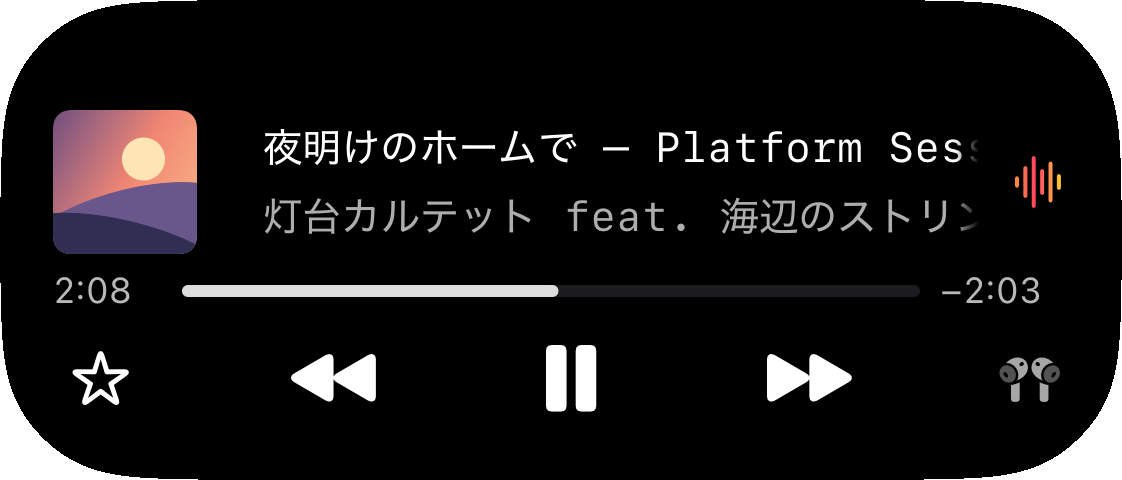
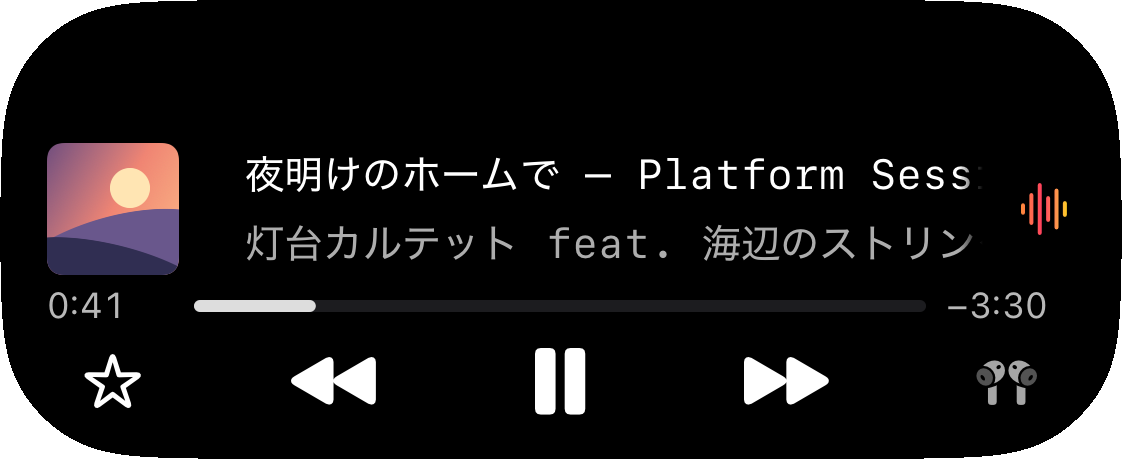
Show both now playing marquees in motion and align player card margins

diff --git a/Examples/NowPlayingLiveActivity/NowPlayingLiveActivity.swift b/Examples/NowPlayingLiveActivity/NowPlayingLiveActivity.swift
@@ -9,14 +9,12 @@ struct NowPlayingLiveActivity: Widget {
     var body: some WidgetConfiguration {
         ActivityConfiguration(for: NowPlayingAttributes.self) { context in
             NowPlayingCard(state: context.state, activityID: context.activityID)
-                .padding(.horizontal, 16)
-                .padding(.vertical, 10)
-                .activityBackgroundTint(Color(red: 0.12, green: 0.09, blue: 0.14).opacity(0.85))
+                .activityBackgroundTint(.clear)
                 .activitySystemActionForegroundColor(.white)
         } dynamicIsland: { context in
             DynamicIsland {
                 DynamicIslandExpandedRegion(.bottom) {
-                    NowPlayingCard(state: context.state, activityID: context.activityID)
+                    NowPlayingCard(state: context.state, activityID: context.activityID, isExpanded: true)
                 }
             } compactLeading: {
                 RecordCover().frame(width: 21, height: 21)
@@ -26,6 +24,8 @@ struct NowPlayingLiveActivity: Widget {
             } minimal: {
                 Image(systemName: "music.note")
             }
+            // The shared card already supplies the content margins.
+            .contentMargins(.all, 0, for: .expanded)
         }
     }
 }
@@ -33,11 +33,15 @@ struct NowPlayingLiveActivity: Widget {
 private struct NowPlayingCard: View {
     let state: NowPlayingAttributes.ContentState
     let activityID: String
+    var isExpanded = false
+
+    private var coverSize: CGFloat { isExpanded ? 44 : 48 }
+    private var controlHeight: CGFloat { isExpanded ? 32 : 44 }
 
     var body: some View {
-        VStack(spacing: 5) {
+        VStack(spacing: isExpanded ? 2 : 5) {
             HStack(spacing: 10) {
-                RecordCover().frame(width: 48, height: 48)
+                RecordCover().frame(width: coverSize, height: coverSize)
                 GeometryReader { area in
                     let group = WidgetMarqueeGroup(
                         [state.track.title, state.track.artist], startedAt: state.titleStartedAt,
@@ -53,32 +57,38 @@ private struct NowPlayingCard: View {
                     .marqueeEdgeFade(length: 8, clearance: 4)
                 }
                 .frame(height: 46)
-                if state.playingFrom == nil {
-                    Image(systemName: "pause.fill").font(.caption).accessibilityHidden(true)
-                } else {
-                    Image(systemName: "waveform")
-                        .foregroundStyle(LinearGradient(colors: [.orange, .pink, .yellow],
-                                                        startPoint: .leading, endPoint: .trailing))
-                        .accessibilityHidden(true)
+                Group {
+                    if state.playingFrom == nil {
+                        Image(systemName: "pause.fill").font(.caption)
+                    } else {
+                        Image(systemName: "waveform")
+                            .foregroundStyle(LinearGradient(colors: [.orange, .pink, .yellow],
+                                                            startPoint: .leading, endPoint: .trailing))
+                    }
                 }
+                .frame(width: 20, alignment: .trailing)
+                .accessibilityHidden(true)
             }
             progress
-            HStack {
+            HStack(spacing: 0) {
                 control(.favorite, state.favorites.contains(state.trackIndex) ? "star.fill" : "star",
-                        "お気に入りを切り替える", size: 17)
-                Spacer()
+                        "お気に入りを切り替える", size: 17, alignment: isExpanded ? .center : .leading)
+                Spacer(minLength: 0)
                 control(.previous, "backward.fill", "前の曲")
-                Spacer()
+                Spacer(minLength: 0)
                 control(.playPause, state.playingFrom == nil ? "play.fill" : "pause.fill",
                         state.playingFrom == nil ? "再生" : "一時停止", size: 26)
-                Spacer()
+                Spacer(minLength: 0)
                 control(.next, "forward.fill", "次の曲")
-                Spacer()
+                Spacer(minLength: 0)
                 Image(systemName: "airpodspro")
                     .font(.body).foregroundStyle(.white.opacity(0.65))
+                    .frame(width: 44, height: controlHeight, alignment: isExpanded ? .center : .trailing)
                     .accessibilityLabel("デモの出力先：イヤフォン")
             }
         }
+        .padding(.horizontal, 16)
+        .padding(.vertical, 10)
         .foregroundStyle(.white)
     }
 
@@ -86,7 +96,7 @@ private struct NowPlayingCard: View {
         HStack(spacing: 7) {
             if let start = state.playingFrom {
                 let interval = start...start.addingTimeInterval(state.track.duration)
-                Text(timerInterval: interval, countsDown: false).frame(width: 36, alignment: .leading)
+                Text(timerInterval: interval, countsDown: false).frame(width: 42, alignment: .leading)
                 ProgressView(timerInterval: interval, countsDown: false).labelsHidden()
                 HStack(spacing: 0) {
                     Text("−")
@@ -94,7 +104,7 @@ private struct NowPlayingCard: View {
                 }
                 .frame(width: 42, alignment: .trailing)
             } else {
-                Text(clock(state.pausedAt)).frame(width: 36, alignment: .leading)
+                Text(clock(state.pausedAt)).frame(width: 42, alignment: .leading)
                 ProgressView(value: state.pausedAt, total: state.track.duration)
                 Text("−" + clock(state.track.duration - state.pausedAt))
                     .frame(width: 42, alignment: .trailing)
@@ -111,10 +121,12 @@ private struct NowPlayingCard: View {
         return String(format: "%d:%02d", seconds / 60, seconds % 60)
     }
 
-    private func control(_ action: PlayerAction, _ symbol: String, _ label: String, size: CGFloat = 20) -> some View {
+    private func control(_ action: PlayerAction, _ symbol: String, _ label: String,
+                         size: CGFloat = 20, alignment: Alignment = .center) -> some View {
         Button(intent: NowPlayingControl(action, activityID: activityID)) {
             Image(systemName: symbol).font(.system(size: size, weight: .semibold))
-                .frame(minWidth: 32, minHeight: 34)
+                .frame(width: 44, height: controlHeight, alignment: alignment)
+                .contentShape(Rectangle())
         }
         .buttonStyle(.plain)
         .accessibilityLabel(Text(verbatim: label))
